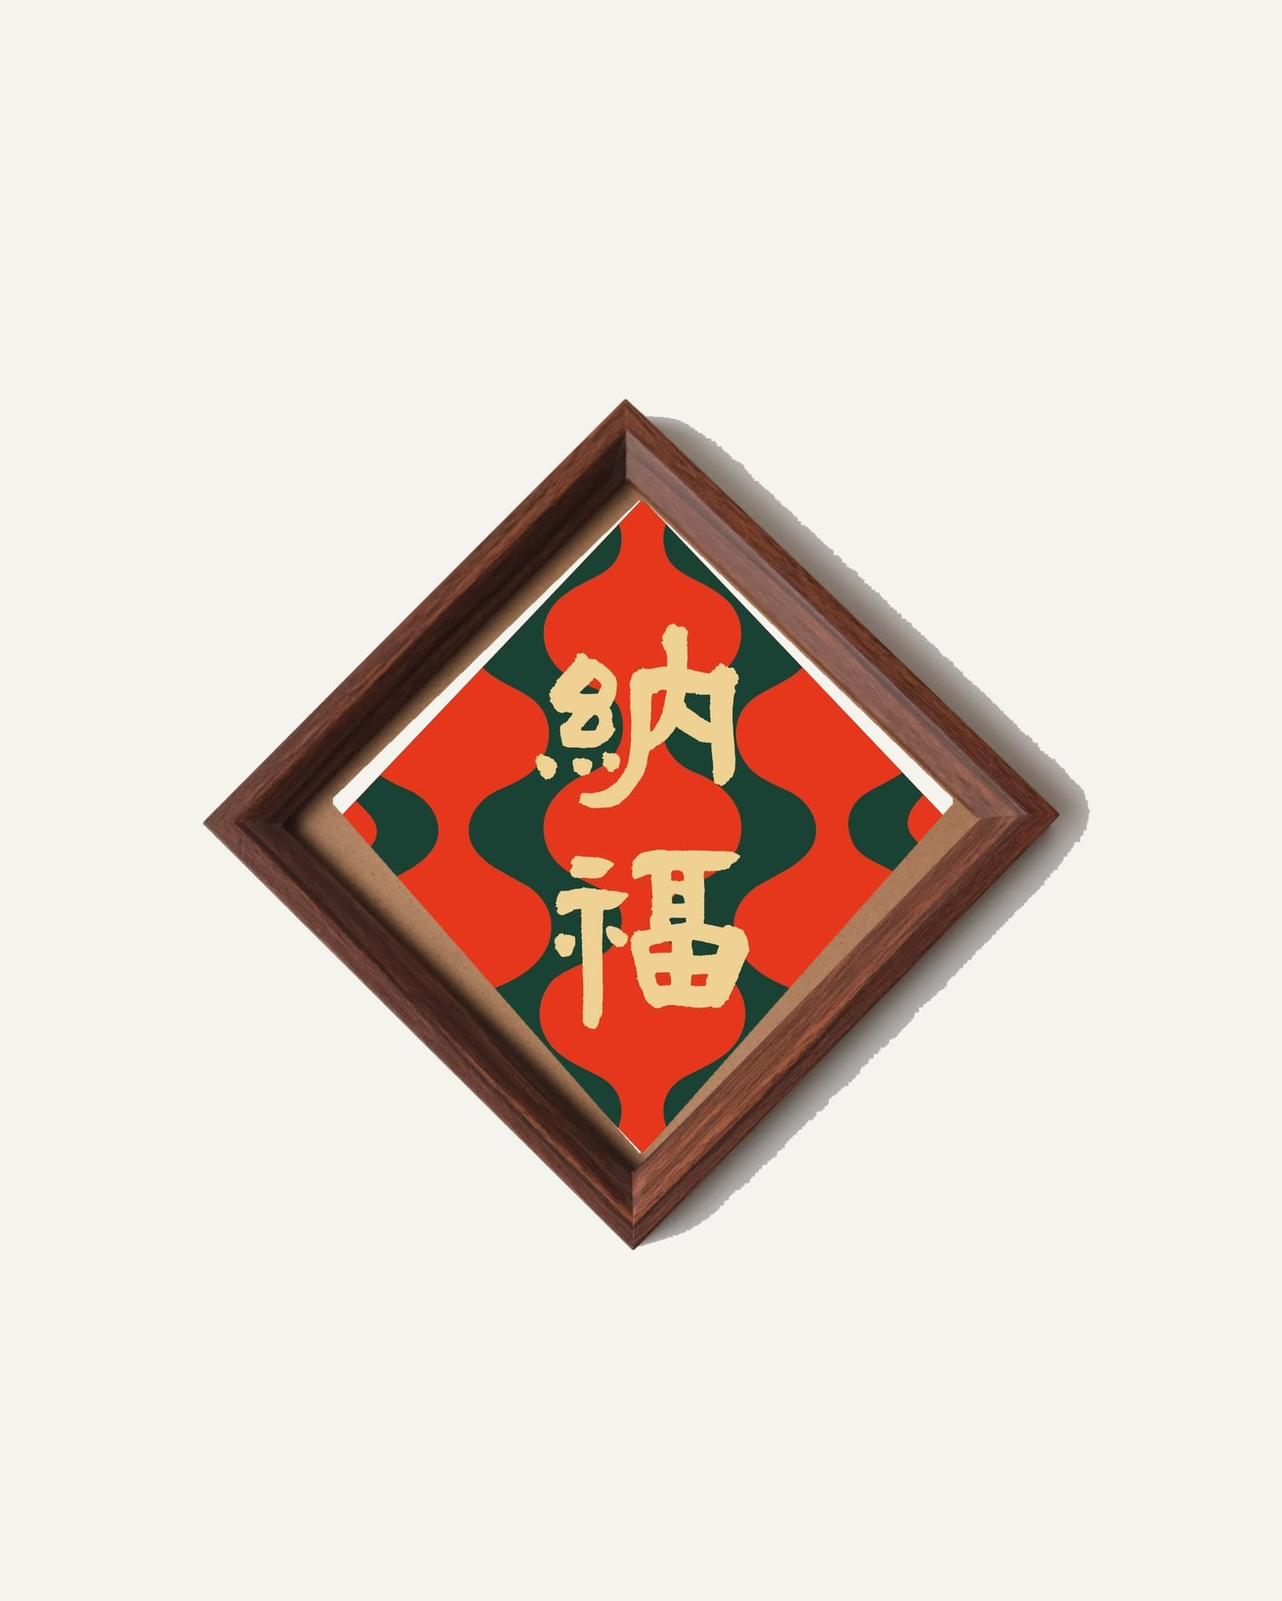
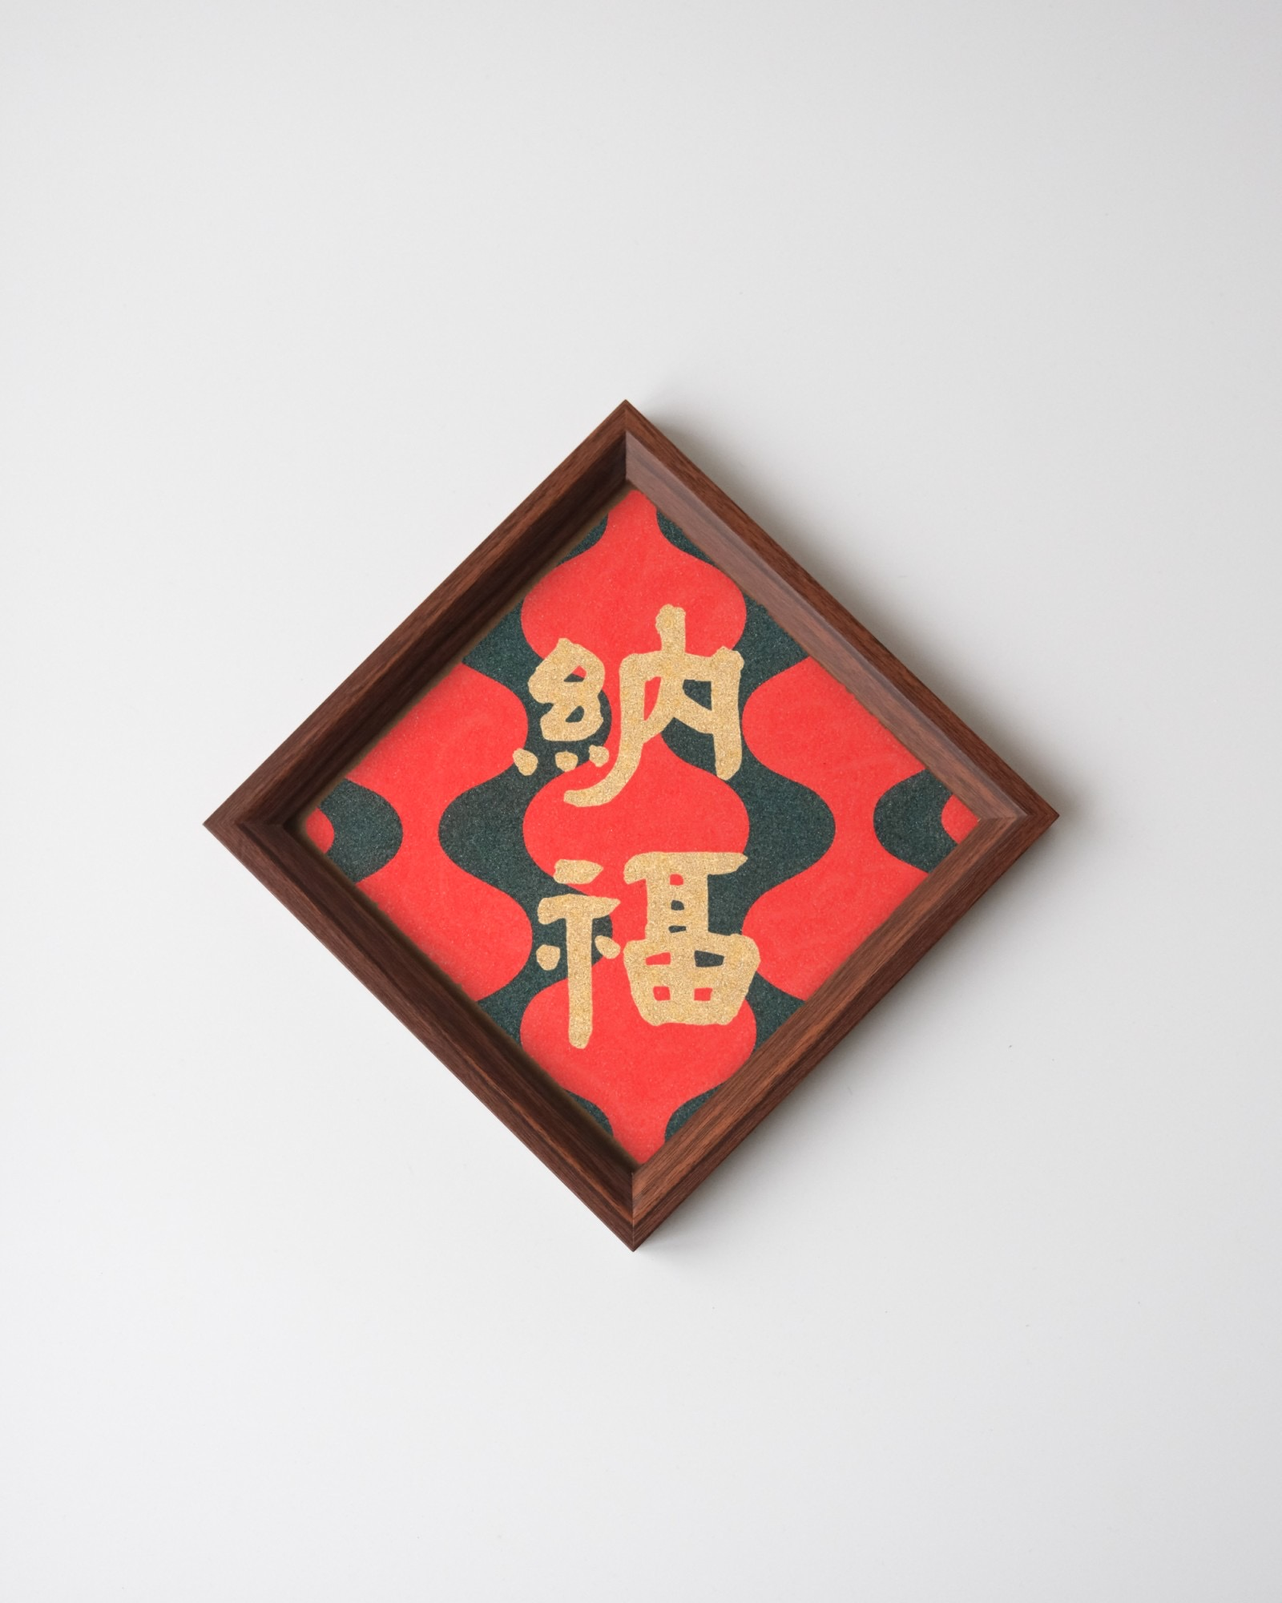
像框加購改用實拍照：首圖換成空框，模擬圖只在點開才看到
使用者提供 9 款設計的實拍上框模擬圖＋2 張純像框實拍照，取代原本
程式合成的 mockup 佔位圖，並修正「首圖顯示合成示意圖，容易讓客人
誤會加購內含砂畫作品」的問題：

- 9 個商品頁加購區塊的「首圖」（addon-card__thumb／addon-row__thumb／
  sand-art-fu 新版 checkbox 列的縮圖）統一改成純像框實拍照
  （sand-art-frame-plain-15/20.jpg，無任何砂畫設計），清楚傳達加購
  的是空框本身
- 9 款設計各自的實拍模擬圖（mockup-{design}-15/20.jpg）取代原本的
  程式合成版本，放在使用者點開才看到的地方：6 個 addon-card 頁面／
  2 個羊系列頁面維持原本「點縮圖→跳彈窗看模擬圖」的互動，sand-art-fu
  頁面（已改版成 checkbox＋選單）新增一顆「預覽放進像框的效果」文字
  連結，點開在新分頁顯示對應尺寸的模擬圖，選單換尺寸連結會跟著換
- 羊Diss舞蹈紅／藍兩頁：使用者指出這款只實拍了 20×20cm，原本沿用
  其他頁共用的「15／20cm 可選」彈窗會讓客人選到沒有模擬圖的尺寸，
  拿掉尺寸選擇器，固定單一 20×20cm（$199），移除 15cm 加入購物車
  按鈕與對應商品
- cart.js 的 PRODUCT_IMAGES（購物車／結帳頁用的像框縮圖 fallback）
  一併改用純像框照，不再借用「福」設計的合成圖

已用 Playwright 驗證：6 個 addon-card 頁面首圖正確顯示空框、點開
彈窗仍顯示各自設計的模擬圖；羊紅／藍兩頁首圖為空框、彈窗只剩
20cm 選項且加入購物車正確送出 sand-art-frame-20；sand-art-fu 頁面
縮圖與預覽連結會隨尺寸選單正確切換。

diff --git a/products/sand-art-artist-sheep-blue/index.html b/products/sand-art-artist-sheep-blue/index.html
@@ -229,15 +229,20 @@
          跳出彈窗顯示「這款放進像框」的合成預覽圖＋尺寸選擇＋加入購物車，
          不用離開這一頁，互動邏輯見 js/frame-addon-modal.js（9 個砂畫
          商品頁共用同一套）。 -->
+    <!-- 2026-10-24：羊Diss舞蹈系列只實拍了 20×20cm 這一種尺寸的上框
+         模擬效果（沒有 15cm 版本），原本沿用其他商品頁共用的「15／20cm
+         可選」彈窗會讓客人選到沒有實際模擬圖可看的尺寸，改成單一固定
+         20×20cm，拿掉尺寸選擇器，首圖也改用純像框實拍照（不帶砂畫
+         設計，理由同其他商品頁的像框加購項目）。 -->
     <section class="chapter">
       <h2 class="chapter__title fade-in">延伸創作</h2>
       <div class="addon-list" style="display:flex">
         <button type="button" class="addon-row addon-row--link" data-addon-modal-trigger>
           <div class="addon-row__thumb">
-            <img src="../../assets/images/products/sand-art-frame/mockup-artist-sheep-blue-15.jpg" alt="沙畫加購像框" loading="lazy">
+            <img src="../../assets/images/products/sand-art-frame/sand-art-frame-plain-20.jpg" alt="沙畫加購像框（空框，實際出貨款式）" loading="lazy">
           </div>
-          <span class="addon-row__name">沙畫加購像框（15／20cm）</span>
-          <p class="addon-row__price price-text">$150 起</p>
+          <span class="addon-row__name">沙畫加購像框（20×20cm）</span>
+          <p class="addon-row__price price-text">$199</p>
           <svg class="addon-row__arrow" viewBox="0 0 24 24" width="16" height="16" fill="none" stroke="currentColor" stroke-width="2" stroke-linecap="round" stroke-linejoin="round" aria-hidden="true"><path d="M9 6l6 6-6 6"/></svg>
         </button>
       </div>
@@ -248,27 +253,14 @@
       <div class="addon-modal__dialog" role="dialog" aria-modal="true" aria-labelledby="frame-modal-title">
         <button type="button" class="addon-modal__close" data-addon-modal-close aria-label="關閉">×</button>
         <div class="addon-modal__media">
-          <img data-frame-modal-img src="../../assets/images/products/sand-art-frame/mockup-artist-sheep-blue-15.jpg" alt="羊Diss舞蹈 Sheep La Danse／藍 裝進像框的模擬效果">
+          <img data-frame-modal-img src="../../assets/images/products/sand-art-frame/mockup-artist-sheep-blue-20.jpg" alt="羊Diss舞蹈 Sheep La Danse／藍 裝進像框的模擬效果">
         </div>
         <div class="addon-modal__body">
           <h2 id="frame-modal-title" class="addon-modal__title">沙畫加購像框</h2>
-          <p class="addon-modal__note">木質畫框，讓完成的砂畫作品直接上牆。</p>
-          <div class="frame-size-picker" role="group" aria-label="選擇尺寸">
-            <button type="button" class="color-picker__chip frame-size-picker__chip" data-size="15" data-price="150" aria-pressed="true">
-              <span class="frame-size-picker__label">15×15cm</span>
-              <span class="frame-size-picker__price">$150</span>
-            </button>
-            <button type="button" class="color-picker__chip frame-size-picker__chip" data-size="20" data-price="199" aria-pressed="false">
-              <span class="frame-size-picker__label">20×20cm</span>
-              <span class="frame-size-picker__price">$199</span>
-            </button>
-          </div>
+          <p class="addon-modal__note">木質畫框，20×20cm 單一尺寸，讓完成的砂畫作品直接上牆。</p>
           <div class="addon-modal__buy-row">
-            <p class="addon-modal__price" data-frame-modal-price>$150</p>
-            <button type="button" class="work__cta work__cta--primary" data-add-to-cart data-product="sand-art-frame-15" data-frame-modal-add-btn="15">
-              <span class="work__cta-label">加入購物車</span>
-            </button>
-            <button type="button" class="work__cta work__cta--primary" data-add-to-cart data-product="sand-art-frame-20" data-frame-modal-add-btn="20" hidden>
+            <p class="addon-modal__price" data-frame-modal-price>$199</p>
+            <button type="button" class="work__cta work__cta--primary" data-add-to-cart data-product="sand-art-frame-20" data-frame-modal-add-btn="20">
               <span class="work__cta-label">加入購物車</span>
             </button>
           </div>

diff --git a/products/sand-art-artist-sheep-red/index.html b/products/sand-art-artist-sheep-red/index.html
@@ -240,15 +240,20 @@
          跳出彈窗顯示「這款放進像框」的合成預覽圖＋尺寸選擇＋加入購物車，
          不用離開這一頁，互動邏輯見 js/frame-addon-modal.js（9 個砂畫
          商品頁共用同一套）。 -->
+    <!-- 2026-10-24：羊Diss舞蹈系列只實拍了 20×20cm 這一種尺寸的上框
+         模擬效果（沒有 15cm 版本），原本沿用其他商品頁共用的「15／20cm
+         可選」彈窗會讓客人選到沒有實際模擬圖可看的尺寸，改成單一固定
+         20×20cm，拿掉尺寸選擇器，首圖也改用純像框實拍照（不帶砂畫
+         設計，理由同其他商品頁的像框加購項目）。 -->
     <section class="chapter">
       <h2 class="chapter__title fade-in">延伸創作</h2>
       <div class="addon-list" style="display:flex">
         <button type="button" class="addon-row addon-row--link" data-addon-modal-trigger>
           <div class="addon-row__thumb">
-            <img src="../../assets/images/products/sand-art-frame/mockup-artist-sheep-red-15.jpg" alt="沙畫加購像框" loading="lazy">
+            <img src="../../assets/images/products/sand-art-frame/sand-art-frame-plain-20.jpg" alt="沙畫加購像框（空框，實際出貨款式）" loading="lazy">
           </div>
-          <span class="addon-row__name">沙畫加購像框（15／20cm）</span>
-          <p class="addon-row__price price-text">$150 起</p>
+          <span class="addon-row__name">沙畫加購像框（20×20cm）</span>
+          <p class="addon-row__price price-text">$199</p>
           <svg class="addon-row__arrow" viewBox="0 0 24 24" width="16" height="16" fill="none" stroke="currentColor" stroke-width="2" stroke-linecap="round" stroke-linejoin="round" aria-hidden="true"><path d="M9 6l6 6-6 6"/></svg>
         </button>
       </div>
@@ -259,27 +264,14 @@
       <div class="addon-modal__dialog" role="dialog" aria-modal="true" aria-labelledby="frame-modal-title">
         <button type="button" class="addon-modal__close" data-addon-modal-close aria-label="關閉">×</button>
         <div class="addon-modal__media">
-          <img data-frame-modal-img src="../../assets/images/products/sand-art-frame/mockup-artist-sheep-red-15.jpg" alt="羊Diss舞蹈 Sheep La Danse／紅 裝進像框的模擬效果">
+          <img data-frame-modal-img src="../../assets/images/products/sand-art-frame/mockup-artist-sheep-red-20.jpg" alt="羊Diss舞蹈 Sheep La Danse／紅 裝進像框的模擬效果">
         </div>
         <div class="addon-modal__body">
           <h2 id="frame-modal-title" class="addon-modal__title">沙畫加購像框</h2>
-          <p class="addon-modal__note">木質畫框，讓完成的砂畫作品直接上牆。</p>
-          <div class="frame-size-picker" role="group" aria-label="選擇尺寸">
-            <button type="button" class="color-picker__chip frame-size-picker__chip" data-size="15" data-price="150" aria-pressed="true">
-              <span class="frame-size-picker__label">15×15cm</span>
-              <span class="frame-size-picker__price">$150</span>
-            </button>
-            <button type="button" class="color-picker__chip frame-size-picker__chip" data-size="20" data-price="199" aria-pressed="false">
-              <span class="frame-size-picker__label">20×20cm</span>
-              <span class="frame-size-picker__price">$199</span>
-            </button>
-          </div>
+          <p class="addon-modal__note">木質畫框，20×20cm 單一尺寸，讓完成的砂畫作品直接上牆。</p>
           <div class="addon-modal__buy-row">
-            <p class="addon-modal__price" data-frame-modal-price>$150</p>
-            <button type="button" class="work__cta work__cta--primary" data-add-to-cart data-product="sand-art-frame-15" data-frame-modal-add-btn="15">
-              <span class="work__cta-label">加入購物車</span>
-            </button>
-            <button type="button" class="work__cta work__cta--primary" data-add-to-cart data-product="sand-art-frame-20" data-frame-modal-add-btn="20" hidden>
+            <p class="addon-modal__price" data-frame-modal-price>$199</p>
+            <button type="button" class="work__cta work__cta--primary" data-add-to-cart data-product="sand-art-frame-20" data-frame-modal-add-btn="20">
               <span class="work__cta-label">加入購物車</span>
             </button>
           </div>

diff --git a/products/sand-art-fu/index.html b/products/sand-art-fu/index.html
@@ -330,13 +330,19 @@
             <input type="checkbox" class="addon-row__checkbox" data-addon-select data-product="sand-art-frame-15" aria-label="加購：沙畫加購像框">
             <p class="addon-row__name">沙畫加購像框（15／20cm）</p>
             <div class="addon-row__body">
+              <!-- 2026-10-24：首圖改用純像框實拍照（不帶任何砂畫設計）
+                   ——之前用 mockup-fu-15/20.jpg（福星放進像框的合成示意
+                   圖）當縮圖，使用者反饋容易讓客人誤會加購「含砂畫
+                   作品」，實際加購的是空框本身。模擬效果圖沒有拿掉，
+                   改放進下面的「預覽放進像框的效果」連結，點開才看到，
+                   不再是列表裡第一眼看到的縮圖。 -->
               <div class="addon-row__thumb">
-                <img data-addon-variant-thumb src="../../assets/images/products/sand-art-frame/mockup-fu-15.jpg" alt="沙畫加購像框" loading="lazy">
+                <img data-addon-variant-thumb src="../../assets/images/products/sand-art-frame/sand-art-frame-plain-15.jpg" alt="沙畫加購像框（空框，實際出貨款式）" loading="lazy">
               </div>
               <div class="addon-row__meta">
                 <select class="addon-row__select" data-addon-variant aria-label="選擇像框尺寸">
-                  <option value="sand-art-frame-15" data-price="150" data-thumb="../../assets/images/products/sand-art-frame/mockup-fu-15.jpg">15×15cm・$150</option>
-                  <option value="sand-art-frame-20" data-price="199" data-thumb="../../assets/images/products/sand-art-frame/mockup-fu-20.jpg">20×20cm・$199</option>
+                  <option value="sand-art-frame-15" data-price="150" data-thumb="../../assets/images/products/sand-art-frame/sand-art-frame-plain-15.jpg" data-mockup="../../assets/images/products/sand-art-frame/mockup-fu-15.jpg">15×15cm・$150</option>
+                  <option value="sand-art-frame-20" data-price="199" data-thumb="../../assets/images/products/sand-art-frame/sand-art-frame-plain-20.jpg" data-mockup="../../assets/images/products/sand-art-frame/mockup-fu-20.jpg">20×20cm・$199</option>
                 </select>
                 <div class="qty-stepper addon-row__qty" data-addon-qty>
                   <button type="button" data-qty-minus aria-label="減少數量">−</button>
@@ -344,6 +350,7 @@
                   <button type="button" data-qty-plus aria-label="增加數量">＋</button>
                 </div>
                 <p class="addon-row__price price-text">$150</p>
+                <a class="addon-row__preview-link" data-addon-preview-link href="../../assets/images/products/sand-art-frame/mockup-fu-15.jpg" target="_blank" rel="noopener">預覽放進像框的效果 →</a>
               </div>
             </div>
           </div>

diff --git a/js/cart.js b/js/cart.js
@@ -298,8 +298,12 @@
     "sand-art-na-fu-lantern": BASE_PREFIX + "assets/images/products/sand-art-na-fu-lantern/sand-art-na-fu-lantern-main.jpg",
     "sand-art-artist-sheep-red": BASE_PREFIX + "assets/images/products/sand-art-artist/sand-art-artist-red-main.jpg",
     "sand-art-artist-sheep-blue": BASE_PREFIX + "assets/images/products/sand-art-artist/sand-art-artist-blue-main.jpg",
-    "sand-art-frame-15": BASE_PREFIX + "assets/images/products/sand-art-frame/mockup-fu-15.jpg",
-    "sand-art-frame-20": BASE_PREFIX + "assets/images/products/sand-art-frame/mockup-fu-20.jpg",
+    // 2026-10-24：購物車／結帳頁顯示的像框縮圖改用純像框實拍照（不帶
+    // 任何砂畫設計），原本借用 mockup-fu-15/20.jpg（福星放進像框的合成
+    // 示意圖）——使用者反饋這樣容易讓客人誤會像框加購「含砂畫作品」，
+    // 實際加購的是空框本身，設計款式見各商品頁自己的「模擬圖」。
+    "sand-art-frame-15": BASE_PREFIX + "assets/images/products/sand-art-frame/sand-art-frame-plain-15.jpg",
+    "sand-art-frame-20": BASE_PREFIX + "assets/images/products/sand-art-frame/sand-art-frame-plain-20.jpg",
     "sand-art-24color-bundle": BASE_PREFIX + "assets/images/products/sand-art-24color/sand-art-24color-bundle.jpg",
   };
 

diff --git a/js/addon-variant-select.js b/js/addon-variant-select.js
@@ -19,6 +19,7 @@
     const thumb = row.querySelector("[data-addon-variant-thumb]");
     const priceEl = row.querySelector(".addon-row__price");
     const checkbox = row.querySelector("[data-addon-select]");
+    const previewLink = row.querySelector("[data-addon-preview-link]");
     const isProductSelect = select.hasAttribute("data-addon-variant");
 
     function sync() {
@@ -27,6 +28,9 @@
       if (thumb && opt.dataset.thumb) thumb.src = opt.dataset.thumb;
       if (priceEl && opt.dataset.price) priceEl.textContent = `$${opt.dataset.price}`;
       if (checkbox && isProductSelect && opt.value) checkbox.dataset.product = opt.value;
+      // 2026-10-24：縮圖改用純像框照，「模擬效果」改放進這顆連結裡，
+      // 選單換尺寸時連結要跟著換成對應尺寸的合成示意圖，不是固定一張。
+      if (previewLink && opt.dataset.mockup) previewLink.href = opt.dataset.mockup;
     }
 
     select.addEventListener("change", sync);

diff --git a/css/products.css b/css/products.css
@@ -2883,6 +2883,15 @@ button.text-link {
   font-size: 13px;
 }
 
+/* 2026-10-24：像框列的「預覽放進像框的效果」連結——縮圖本身改用純
+   像框照（避免讓客人誤會加購含砂畫作品），合成示意圖改成點進去才看到，
+   文字連結比照全站次要連結的克制調性（純文字＋底線，不做按鈕外觀）。 */
+.addon-section--orlo .addon-row__preview-link {
+  font-size: 12px;
+  color: rgb(107, 107, 107);
+  text-decoration: underline;
+}
+
 /* 數量選擇器：三個各自獨立的方塊並排（不是共用一個外框），相鄰邊框用
    margin-left:-1px 重疊，「−」disabled 時維持黑字，不套用全站共用
    .qty-stepper button:disabled 那條變灰規則。 */

diff --git a/products/sand-art-ying-chun-lantern/index.html b/products/sand-art-ying-chun-lantern/index.html
@@ -366,7 +366,7 @@
                （9 個砂畫商品頁共用同一套）。 -->
           <div class="addon-card" data-product-card>
             <div class="addon-card__thumb">
-              <img src="../../assets/images/products/sand-art-frame/mockup-ying-chun-lantern-15.jpg" alt="沙畫加購像框" loading="lazy">
+              <img src="../../assets/images/products/sand-art-frame/sand-art-frame-plain-15.jpg" alt="沙畫加購像框（空框，實際出貨款式）" loading="lazy">
             </div>
             <div class="addon-card__body">
               <p class="addon-card__name">沙畫加購像框</p>

diff --git a/products/sand-art-na-fu-lantern/index.html b/products/sand-art-na-fu-lantern/index.html
@@ -388,7 +388,7 @@
                （9 個砂畫商品頁共用同一套）。 -->
           <div class="addon-card" data-product-card>
             <div class="addon-card__thumb">
-              <img src="../../assets/images/products/sand-art-frame/mockup-na-fu-lantern-15.jpg" alt="沙畫加購像框" loading="lazy">
+              <img src="../../assets/images/products/sand-art-frame/sand-art-frame-plain-15.jpg" alt="沙畫加購像框（空框，實際出貨款式）" loading="lazy">
             </div>
             <div class="addon-card__body">
               <p class="addon-card__name">沙畫加購像框</p>

diff --git a/products/sand-art-ying-chun/index.html b/products/sand-art-ying-chun/index.html
@@ -424,7 +424,7 @@
                （9 個砂畫商品頁共用同一套）。 -->
           <div class="addon-card" data-product-card>
             <div class="addon-card__thumb">
-              <img src="../../assets/images/products/sand-art-frame/mockup-ying-chun-15.jpg" alt="沙畫加購像框" loading="lazy">
+              <img src="../../assets/images/products/sand-art-frame/sand-art-frame-plain-15.jpg" alt="沙畫加購像框（空框，實際出貨款式）" loading="lazy">
             </div>
             <div class="addon-card__body">
               <p class="addon-card__name">沙畫加購像框</p>

diff --git a/products/sand-art-na-fu/index.html b/products/sand-art-na-fu/index.html
@@ -405,7 +405,7 @@
                （9 個砂畫商品頁共用同一套）。 -->
           <div class="addon-card" data-product-card>
             <div class="addon-card__thumb">
-              <img src="../../assets/images/products/sand-art-frame/mockup-na-fu-15.jpg" alt="沙畫加購像框" loading="lazy">
+              <img src="../../assets/images/products/sand-art-frame/sand-art-frame-plain-15.jpg" alt="沙畫加購像框（空框，實際出貨款式）" loading="lazy">
             </div>
             <div class="addon-card__body">
               <p class="addon-card__name">沙畫加購像框</p>

diff --git a/products/sand-art-chun/index.html b/products/sand-art-chun/index.html
@@ -464,7 +464,7 @@
                （9 個砂畫商品頁共用同一套）。 -->
           <div class="addon-card" data-product-card>
             <div class="addon-card__thumb">
-              <img src="../../assets/images/products/sand-art-frame/mockup-chun-15.jpg" alt="沙畫加購像框" loading="lazy">
+              <img src="../../assets/images/products/sand-art-frame/sand-art-frame-plain-15.jpg" alt="沙畫加購像框（空框，實際出貨款式）" loading="lazy">
             </div>
             <div class="addon-card__body">
               <p class="addon-card__name">沙畫加購像框</p>

diff --git a/products/sand-art-cai/index.html b/products/sand-art-cai/index.html
@@ -444,7 +444,7 @@
                （9 個砂畫商品頁共用同一套）。 -->
           <div class="addon-card" data-product-card>
             <div class="addon-card__thumb">
-              <img src="../../assets/images/products/sand-art-frame/mockup-cai-15.jpg" alt="沙畫加購像框" loading="lazy">
+              <img src="../../assets/images/products/sand-art-frame/sand-art-frame-plain-15.jpg" alt="沙畫加購像框（空框，實際出貨款式）" loading="lazy">
             </div>
             <div class="addon-card__body">
               <p class="addon-card__name">沙畫加購像框</p>
